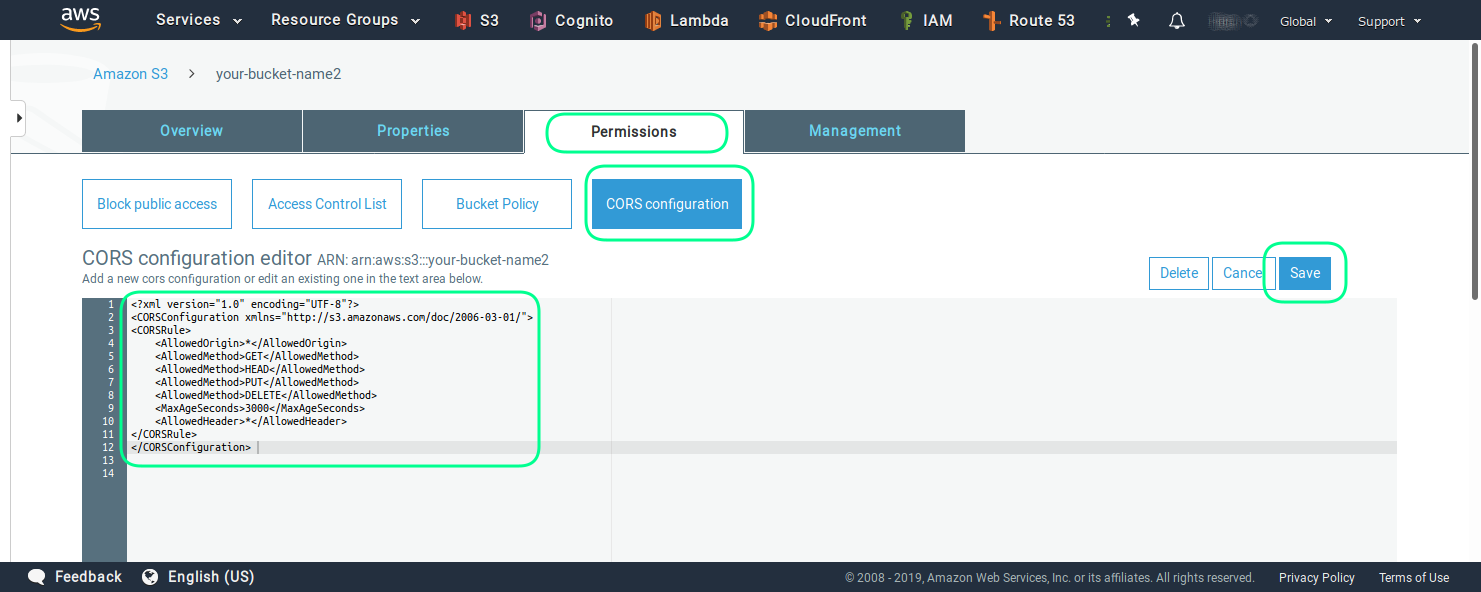
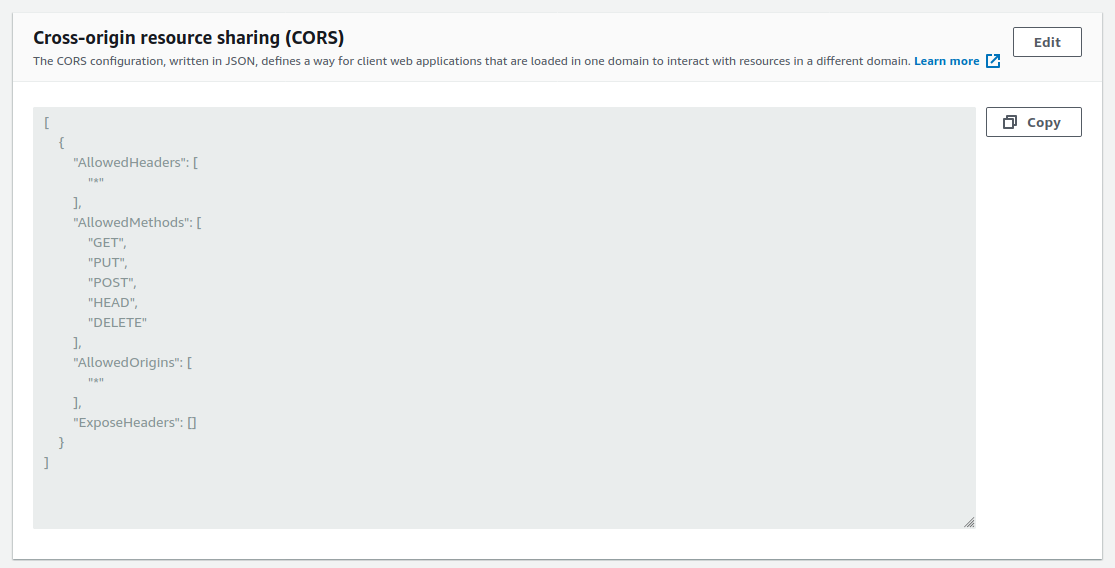
updating information for the CORS setup on s3 buckets

Changed region(s): [[0.0, 0.0, 1.0, 1.0], [0.7623, 0.3891, 0.9148, 0.5387], [0.8538, 0.7183, 0.9453, 0.7782]]

diff --git a/docs/tutorials/s3-bucket-locations.md b/docs/tutorials/s3-bucket-locations.md
@@ -44,20 +44,16 @@ This is an optional step, needed only if you want to access the bucket from [Tag
 
 ![Create S3 bucket](/media/aws/aws-s3-cors.png)
 
-The XML config, can be copied from the section bellow.
+The JSON config, can be copied from the section bellow.
 
-    <?xml version="1.0" encoding="UTF-8"?>
-    <CORSConfiguration xmlns="http://s3.amazonaws.com/doc/2006-03-01/">
-    <CORSRule>
-        <AllowedOrigin>*</AllowedOrigin>
-        <AllowedMethod>GET</AllowedMethod>
-        <AllowedMethod>HEAD</AllowedMethod>
-        <AllowedMethod>PUT</AllowedMethod>
-        <AllowedMethod>DELETE</AllowedMethod>
-        <MaxAgeSeconds>3000</MaxAgeSeconds>
-        <AllowedHeader>*</AllowedHeader>
-    </CORSRule>
-    </CORSConfiguration>
+    [
+        {
+        "AllowedHeaders": ["*"],
+        "AllowedMethods": ["GET", "PUT", "POST", "HEAD", "DELETE"],
+        "AllowedOrigins": ["*"],
+        "ExposeHeaders": []
+       }
+    ]
 
 > You can remove the _PUT_ and _DELETE_ lines, if you want to disable the writing and deleting operation from TagSpaces Enterprise.
 
